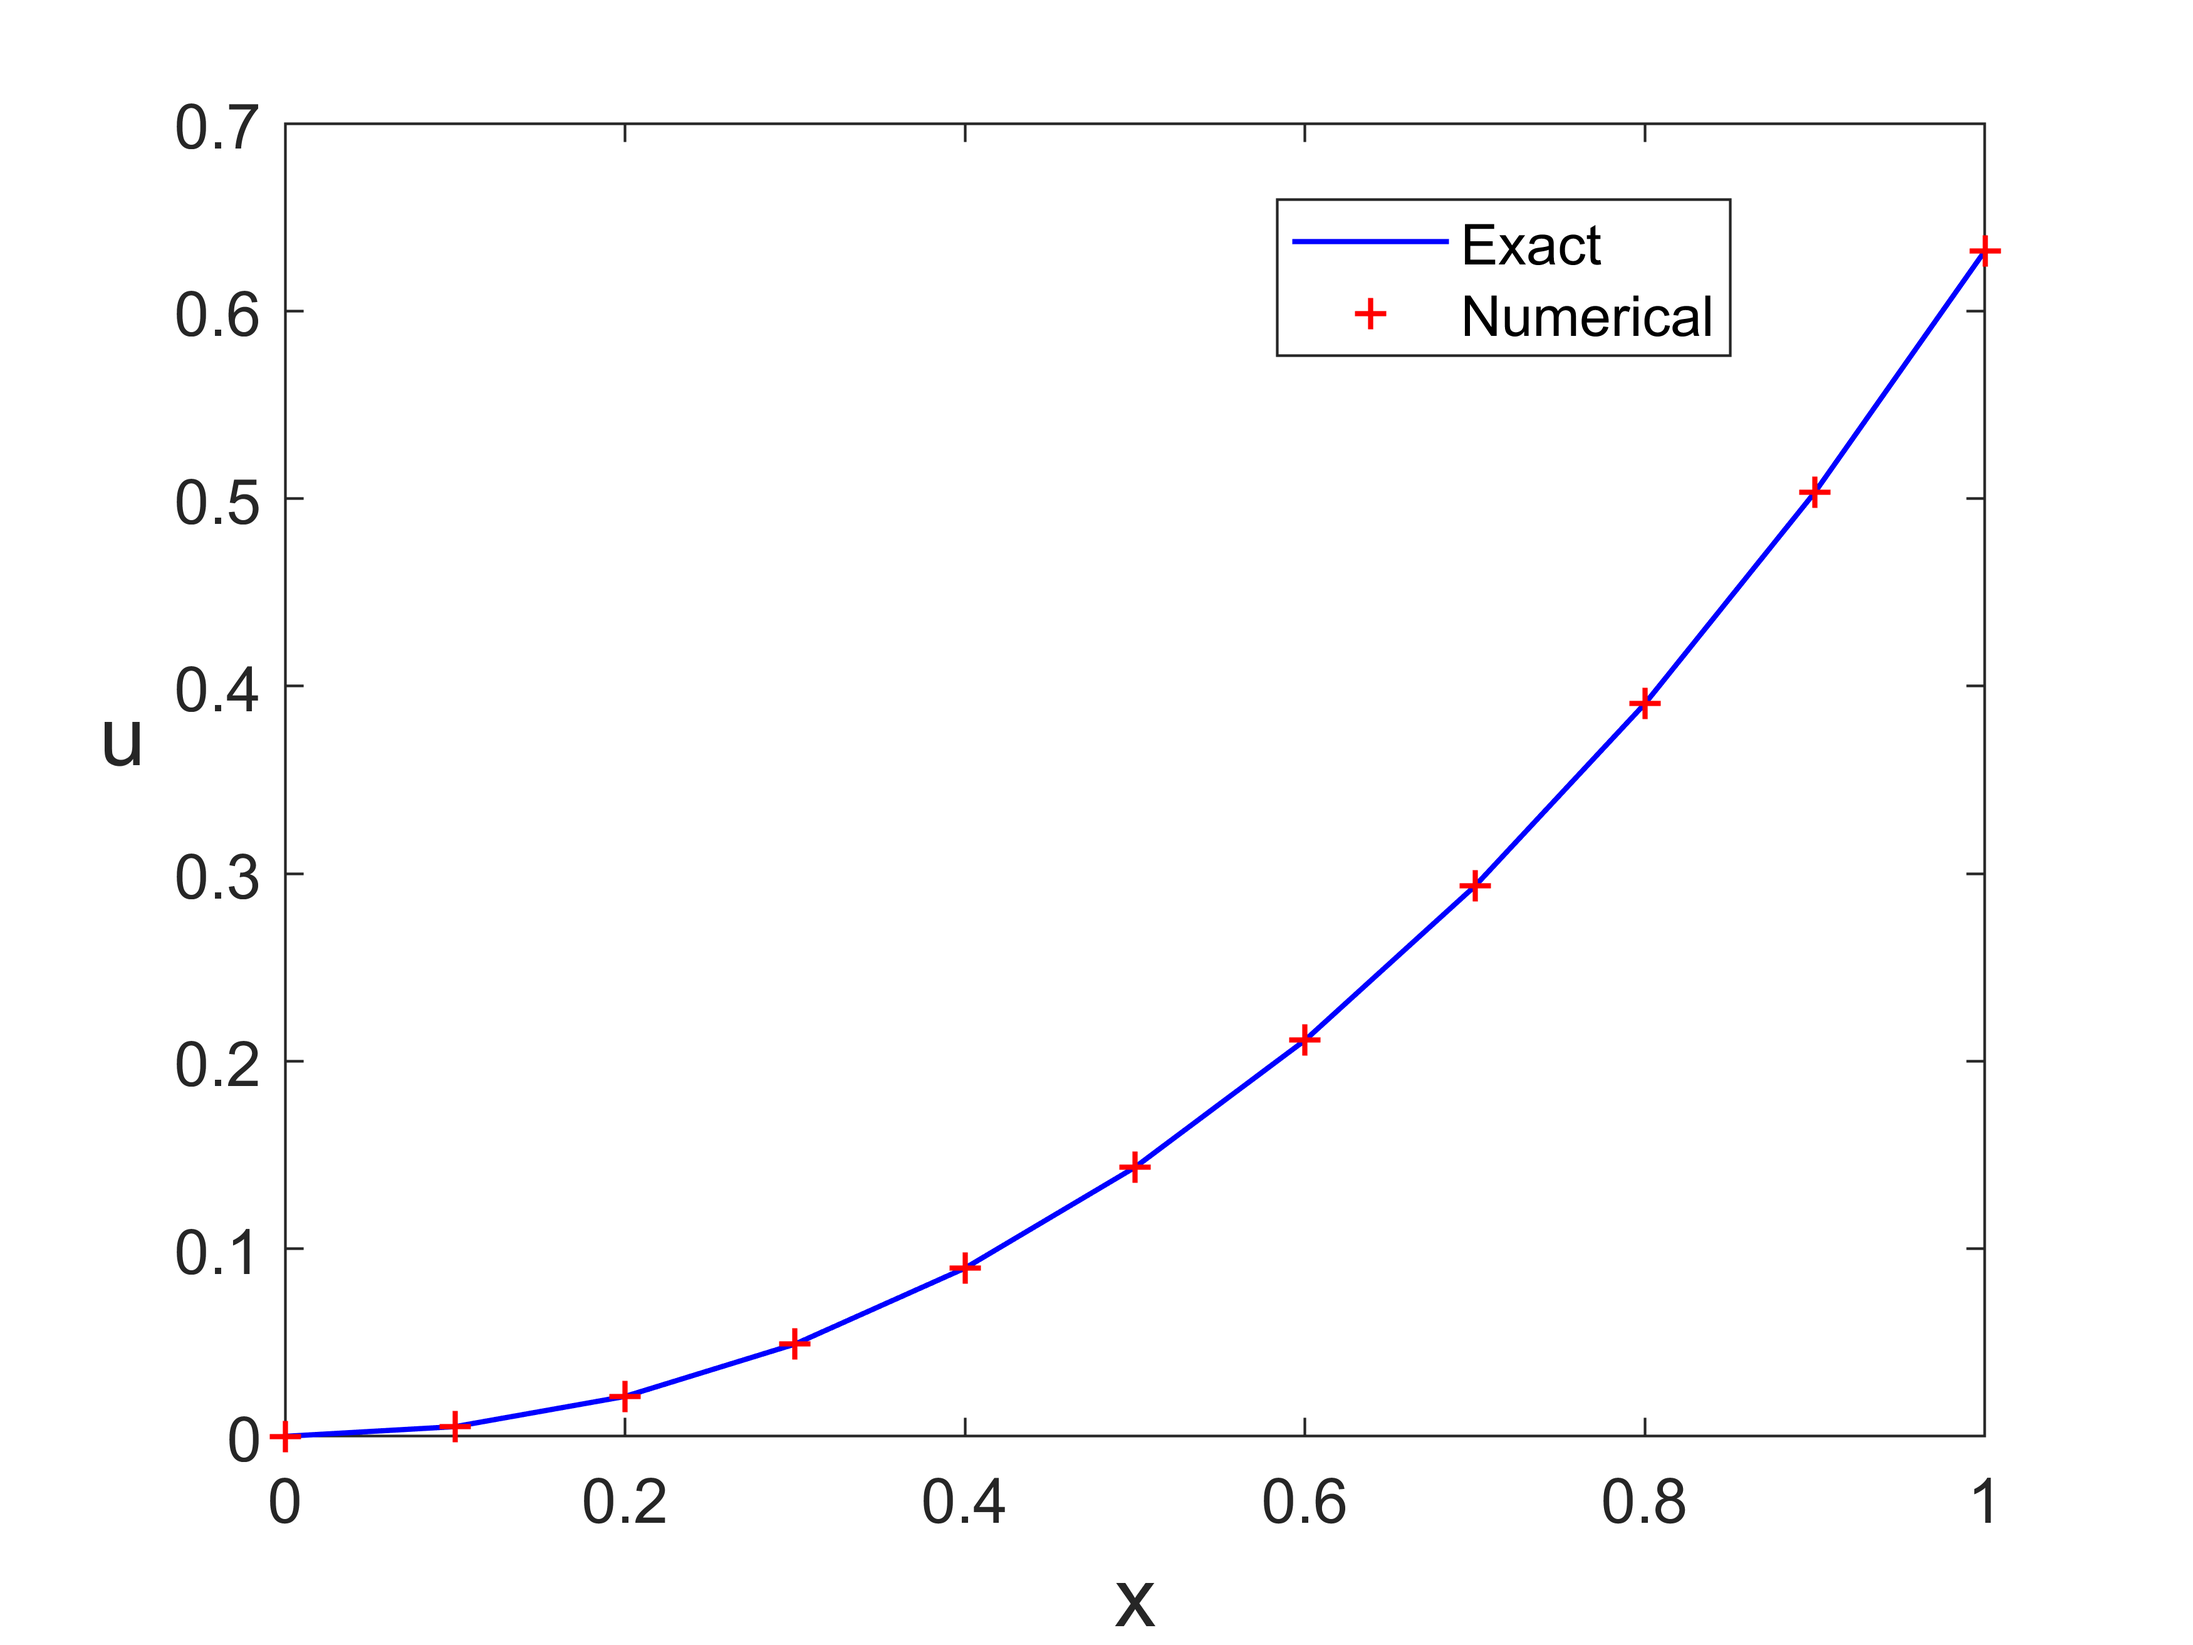
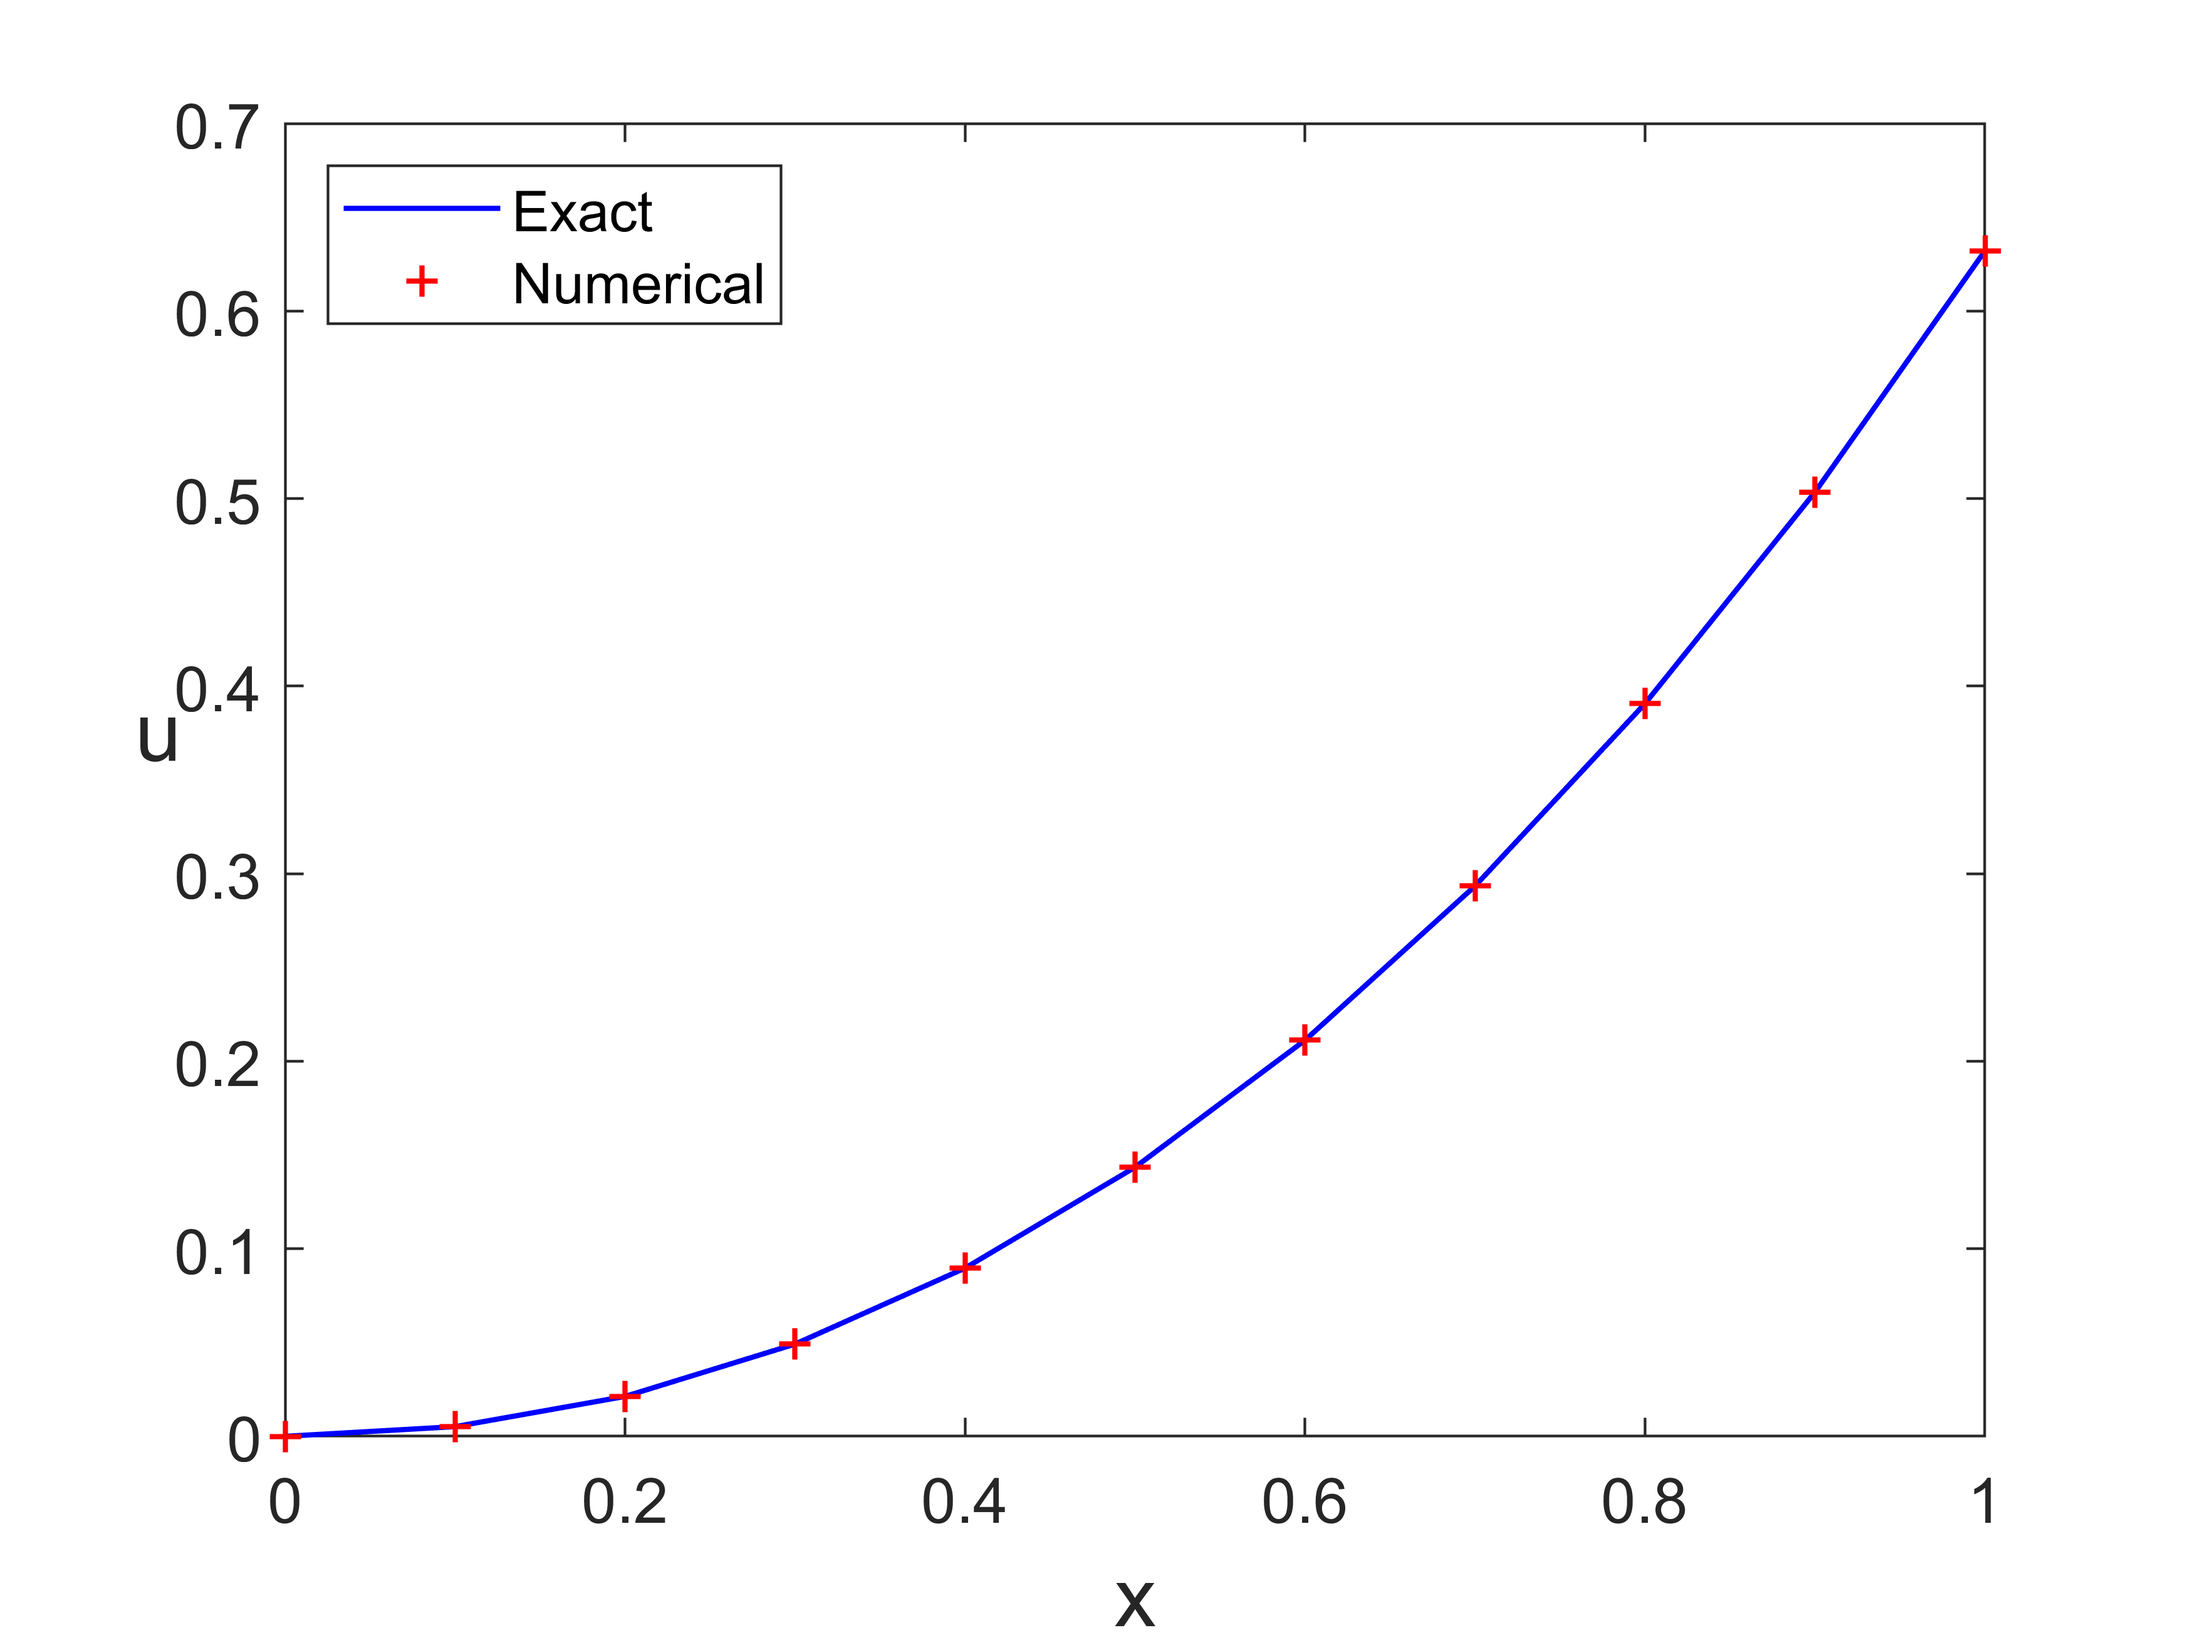
Update

Changed region(s): [[0.1557, 0.0937, 0.3737, 0.1874], [0.5917, 0.125, 0.7786, 0.2187], [0.0311, 0.4373, 0.0934, 0.4686]]

diff --git a/ODE Code/RungeKutta.m b/ODE Code/RungeKutta.m
@@ -5,7 +5,7 @@
 % Exact solution: u(x)=-exp(-x)+x^2-x+1.
 clear all;  clf
 h=0.1;
-x=0:h:1;                     % function interval
+x=0:h:1;                     % interval division
 N=length(x)-1;
 u(1)=0;                      % initial value
 fun=@(x,u) x.^2+x-u;         % RHS
@@ -18,8 +18,7 @@ for n=1:N
 end
 ue=-exp(-x)+x.^2-x+1;        % exact solution
 plot(x,ue,'b-',x,u,'r+','LineWidth',1)
-legend('Exact','Numerical','location','North')
-legend('Exact ','Numerical','location','North')
+legend('Exact','Numerical','location','northwest')
 % title('Runge-Kutta Method','fontsize',12)
 set(gca,'fontsize',12)
 xlabel('x','fontsize', 16), ylabel('u','fontsize',16,'Rotation',0)

diff --git a/ODE Code/Euler1.m b/ODE Code/Euler1.m
@@ -5,7 +5,7 @@
 % Exact solution: u(x)=-exp(-x)+x^2-x+1.
 clear all;  clf
 h=0.1;
-x=0:h:1;                       % function interval
+x=0:h:1;                       % interval division
 N=length(x)-1;
 u(1)=0;                        % initial value
 fun=@(t,u) t.^2+t-u;           % RHS
@@ -14,7 +14,7 @@ for n=1:N
 end
 ue=-exp(-x)+x.^2-x+1;          % exact solution
 plot(x,ue,'b-',x,u,'r+','LineWidth',1)
-legend('Exact ','Numerical','location','North')
+legend('Exact','Numerical','location','northwest')
 %title('Euler method','fontsize',12)
 set(gca,'fontsize',12)
 xlabel('x','fontsize', 16), ylabel('u','fontsize',16,'Rotation',0)

diff --git a/ODE Code/EulerPro.m b/ODE Code/EulerPro.m
@@ -5,7 +5,7 @@
 % Exact solution: u(x)=-exp(-x)+x^2-x+1.
 clear all;  clf
 h=0.1;
-x=0:h:1;                     % function interval
+x=0:h:1;                     % interval division
 N=length(x)-1;
 u(1)=0;                      % initial value
 fun=@(x,u) x.^2+x-u;         % RHS
@@ -16,7 +16,7 @@ for n=1:N
 end
 ue=-exp(-x)+x.^2-x+1;        % exact solution
 plot(x,ue,'b-',x,u,'r+','LineWidth',1)
-legend('Exact','Numerical','location','North')
+legend('Exact','Numerical','location','northwest')
 %title('Modified Euler Method','fontsize',12)
 set(gca,'fontsize',12)
 xlabel('x','fontsize', 16), ylabel('u','fontsize',16,'Rotation',0)

diff --git a/ODE Code/Trapezoidal.m b/ODE Code/Trapezoidal.m
@@ -5,7 +5,7 @@
 % Exact solution: u(x)=-exp(-x)+x^2-x+1.
 clear all;  clf
 h=0.1;
-x=0:h:1;                       % function interval
+x=0:h:1;                       % interval division
 N=length(x)-1;
 u(1)=0;                        % initial value
 for n=1:N
@@ -13,7 +13,7 @@ for n=1:N
 end
 ue=-exp(-x)+x.^2-x+1;          % exact solution
 plot(x,ue,'b-',x,u,'r+','LineWidth',1)
-legend('Exact ','Numerical','location','North')
+legend('Exact','Numerical','location','northwest')
 %title('Trapezoidal rule','fontsize',12)
 set(gca,'fontsize',12)
 xlabel('x','fontsize', 16), ylabel('u','fontsize',16,'Rotation',0)

diff --git a/ODE Code/Euler1_error.m b/ODE Code/Euler1_error.m
@@ -4,13 +4,13 @@
 % Initial condition: u(0)=0 ;
 % Exact solution: u(x)=-exp(-x)+x^2-x+1.
 clear all;  clf
-Nvec=[10 50 100 500 1000];        % Number of splits
+Nvec=[10 50 100 500 1000];        % Number of divisions
 Error=[];
 fun=@(x,u) x.^2+x-u;              % RHS
 for k=1:length(Nvec)
     N=Nvec(k);
     h=1/N;
-    x=0:h:1;                      % function interval
+    x=0:h:1;                      % interval division
     u(1)=0;                       % initial value
     for n=1:N
         u(n+1)=u(n)+h.*fun(x(n),u(n));

diff --git a/ODE Code/EulerPro_error.m b/ODE Code/EulerPro_error.m
@@ -4,13 +4,13 @@
 % Initial condition: u(0)=0 ;
 % Exact solution: u(x)=-exp(-x)+x^2-x+1.
 clear all;  clf
-Nvec=[10 50 100 500 1000];        % Number of splits
+Nvec=[10 50 100 500 1000];        % Number of divisions
 Error=[];
 fun=@(x,u) x.^2+x-u;              % RHS
 for k=1:length(Nvec)
     N=Nvec(k);
     h=1/N;
-    x=0:h:1;                      % function interval
+    x=0:h:1;                      % interval division
     u(1)=0;                       % initial value
     for n=1:N
         k1=fun(x(n),u(n));

diff --git a/ODE Code/RungeKutta_error.m b/ODE Code/RungeKutta_error.m
@@ -4,13 +4,13 @@
 % Initial value : u(0)=0 ;
 % Exact solution : u(t)=-exp(-t)+t^2-t+1.
 clear all;  clf
-Nvec=[10 50 100 500 1000];        % Number of splits
+Nvec=[10 50 100 500 1000];        % Number of divisions
 Error=[];
 fun=@(t,u) t.^2+t-u;              % RHS
 for k=1:length(Nvec)
     N=Nvec(k);
     h=1/N;
-    x=0:h:1;                      % function interval
+    x=0:h:1;                      % interval division
     u(1)=0;                       % initial value
     for n=1:N
         k1=fun(x(n),u(n));

diff --git a/ODE Code/Trapezoidal_error.m b/ODE Code/Trapezoidal_error.m
@@ -4,12 +4,12 @@
 % Initial condition: u(0)=0 ;
 % Exact solution: u(x)=-exp(-x)+x^2-x+1.
 clear all;  clf
-Nvec=[10 50 100 500 1000];       % Number of splits
+Nvec=[10 50 100 500 1000];     % Number of divisions
 Error=[];
 for k=1:length(Nvec)
     N=Nvec(k);
     h=1/N;
-x=0:h:1;                       % function interval
+x=0:h:1;                       % interval division
 N=length(x)-1;
 u(1)=0;                        % initial value
 for n=1:N

diff --git a/ODE Code/BackEuler.m b/ODE Code/BackEuler.m
@@ -29,3 +29,4 @@ set(gca,'fontsize',12)
 xlabel('t','fontsize', 16), ylabel('u','fontsize',16,'Rotation',0)
 % computing error
 error=max(abs(u-ue))
+
